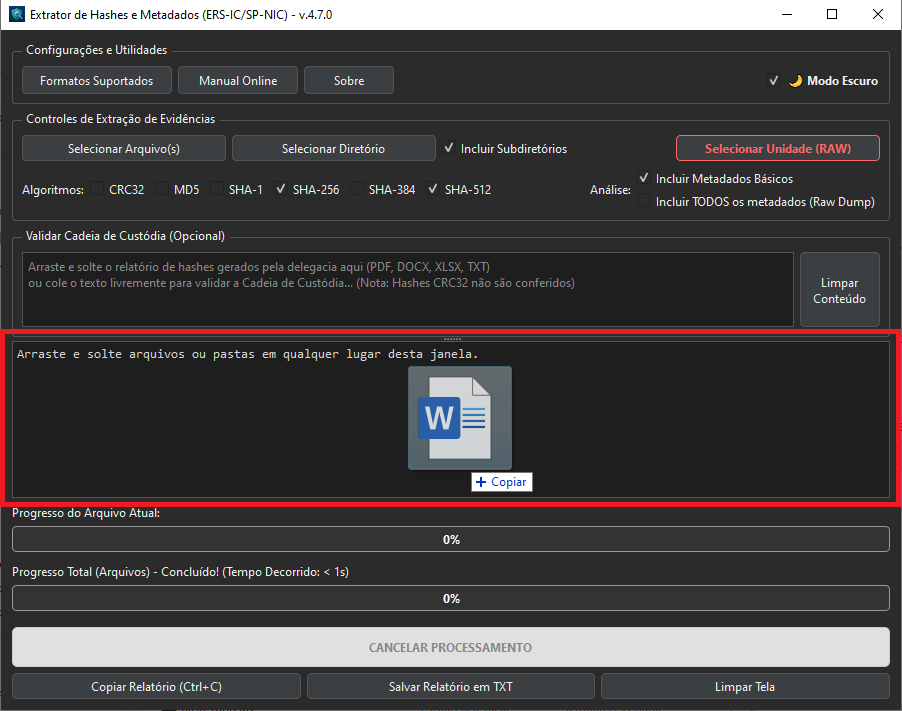
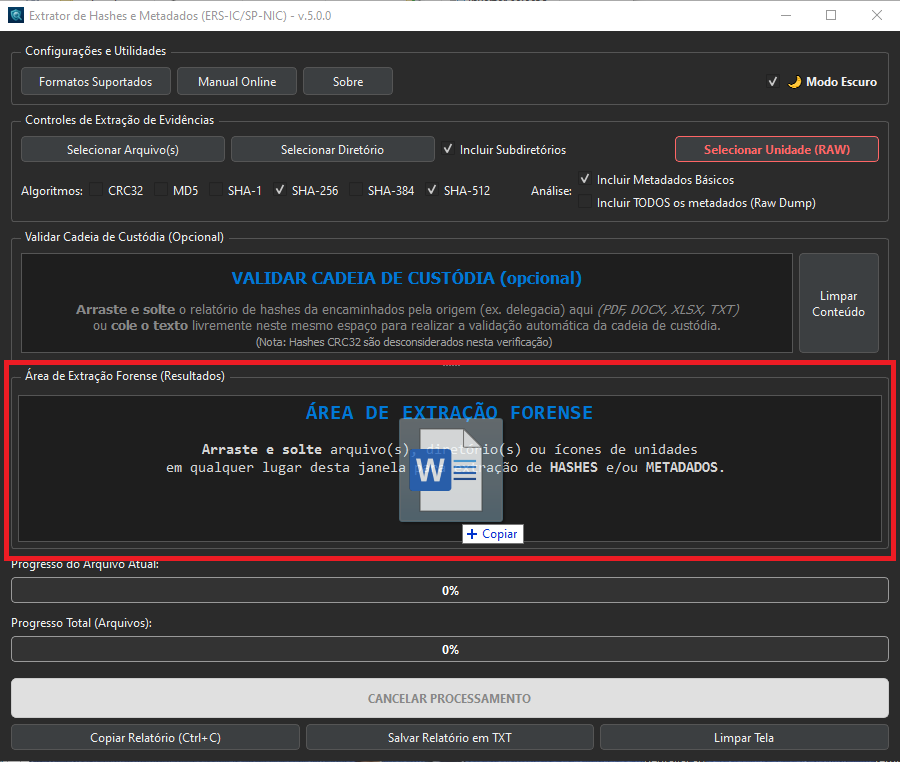
docs(manual): atualizar e incluir novas imagens no MANUAL.md
- Adiciona capturas de tela recentes e atualiza os arquivos de imagens vinculados ao manual de instruções para refletir as últimas mudanças da UI.
- Atualiza explicações das funcionalidades.

diff --git a/MANUAL.md b/MANUAL.md
@@ -114,12 +114,25 @@ Para processar mídias físicas ou volumes lógicos em baixo nível, utilize o m
 O extrator permite auditar listagens de hashes recebidas em laudos de terceiros ou documentos de custódia.
 
 * **Como operar:** Arraste o arquivo de referência (PDF, DOCX, XLSX ou TXT) para a caixa superior "Validar Cadeia de Custódia". Você também pode copiar e colar o contéudo nesse mesmo campo.
-* **Análise Reversa:** O software buscará automaticamente no texto o hash do arquivo que está sendo processado, ignorando artefatos de formatação e espaços invisíveis.
-* **Resultado:** O log indicará **✅ CONFERE** ou emitirá alertas se o hash bater mas o nome do arquivo for divergente.
 
     <figure>
-      <img src="imgs/validacao_cadeia_custodia.PNG" alt="Neste exemplo hipotético, o requisitante do exame enviou o arquivo 'hash_delegacia.txt' que foi arrastado e soltado na região 'Validação Cadeia de Custódia'. A extração do hash do arquivo teste.pdf foi comparada automaticamente com a referência recebida." style="border: 1px solid black;" width="100%">
-      <figcaption align="center"><i>Neste exemplo hipotético, o requisitante do exame enviou o arquivo 'hash_delegacia.txt' que foi arrastado e soltado na região 'Validação Cadeia de Custódia'. A extração do hash do arquivo teste.pdf foi comparada automaticamente com a referência recebida.</i></figcaption>
+      <img src="imgs/validacao_cadeia_custodia_drag_drop.PNG" alt="Área para drag-and-drop de arquivos com hashes calculados pelo requisitante do exame para validação de cadeia de custódia." style="border: 1px solid black;" width="100%">
+      <figcaption align="center"><i>Área para drag-and-drop de arquivos com hashes calculados pelo requisitante do exame para validação de cadeia de custódia.</i></figcaption>
+    </figure>
+
+<br>
+
+* **Análise Reversa:** O software buscará automaticamente no texto o hash do arquivo que está sendo processado, ignorando artefatos de formatação e espaços invisíveis.
+* **Resultado:** O log indicará, em cada arquivo analisado, um dos seguintes status:
+  * **✅ CONFERE:** se todos os hashes forem encontrados na listagem informada pelo requisitante do exame.
+  * **⚠ ALERTA PARCIAL:** se apenas alguns dos hashes daquele arquivo forem encontrados.
+  * **❌ DIVERGÊNCIA:** se nenhum hash calculado constar na listagem informada pelo requisitante do exame.
+* Ao final, é gerado um **RESUMO DA VALIDAÇÃO DE CUSTÓDIA** que sintetiza os resultados acima:
+  * 
+
+    <figure>
+      <img src="imgs/validacao_cadeia_custodia.PNG" alt="Neste exemplo hipotético, o requisitante do exame enviou uma listagem de hashes que foi copiada na região 'Validação Cadeia de Custódia'. A extração dos hashs dos arquivos analisados foi comparada automaticamente com a referência recebida." style="border: 1px solid black;" width="100%">
+      <figcaption align="center"><i>Neste exemplo hipotético, o requisitante do exame enviou uma listagem de hashes que foi copiada na região 'Validação Cadeia de Custódia'. A extração dos hashs dos arquivos analisados foi comparada automaticamente com a referência recebida.</i></figcaption>
     </figure>
 
 <br>
